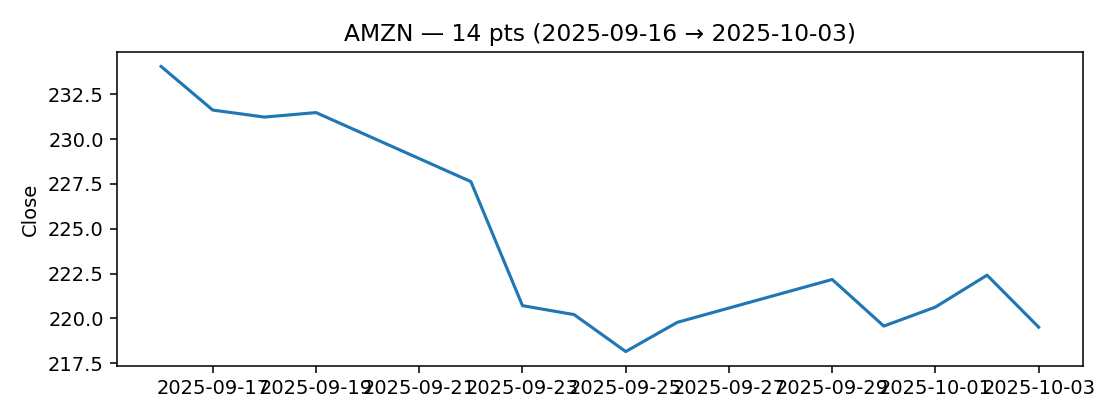
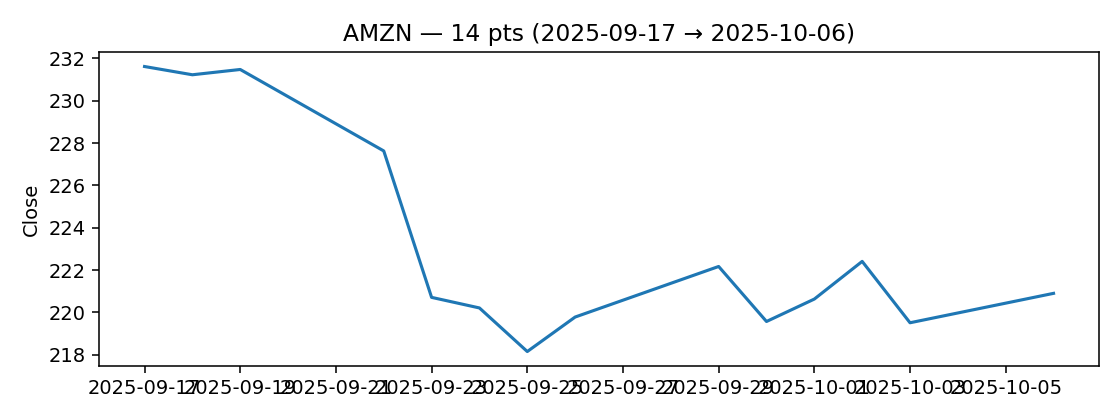
chore: update daily report 2025-10-07 08:11

diff --git a/docs/daily_report.html b/docs/daily_report.html
@@ -108,7 +108,7 @@
   <header>
     <div>
       <h1>Daily Study & News Companion</h1>
-      <div class="sub">2025-10-05 08:09 · TZ: CST</div>
+      <div class="sub">2025-10-07 08:11 · TZ: CST</div>
     </div>
     <button class="btn" id="themeBtn">🌓 Tema</button>
   </header>
@@ -150,11 +150,11 @@
           </div>
           <div class="mkt-body">
             <div class="metrics-row">
-          <div class="kv"><span>Last</span><b>219.51</b></div>
-          <div class="kv"><span>d/d</span><b class="down">-6.21%</b></div>
+          <div class="kv"><span>Last</span><b>220.90</b></div>
+          <div class="kv"><span>d/d</span><b class="down">-4.63%</b></div>
           <div class="kv"><span>Mín</span><b>218.15</b></div>
-          <div class="kv"><span>Máx</span><b>234.05</b></div>
-          <div class="kv"><span>σ</span><b>5.44</b></div>
+          <div class="kv"><span>Máx</span><b>231.62</b></div>
+          <div class="kv"><span>σ</span><b>4.75</b></div>
         </div>
             <div class="chart"><img src="charts/AMZN_close.png" alt="AMZN chart" loading="lazy"/></div>
           </div>
@@ -167,11 +167,11 @@
           </div>
           <div class="mkt-body">
             <div class="metrics-row">
-          <div class="kv"><span>Last</span><b>517.35</b></div>
-          <div class="kv"><span>d/d</span><b class="up">1.63%</b></div>
+          <div class="kv"><span>Last</span><b>528.57</b></div>
+          <div class="kv"><span>d/d</span><b class="up">3.64%</b></div>
           <div class="kv"><span>Mín</span><b>507.03</b></div>
-          <div class="kv"><span>Máx</span><b>519.71</b></div>
-          <div class="kv"><span>σ</span><b>4.06</b></div>
+          <div class="kv"><span>Máx</span><b>528.57</b></div>
+          <div class="kv"><span>σ</span><b>5.52</b></div>
         </div>
             <div class="chart"><img src="charts/MSFT_close.png" alt="MSFT chart" loading="lazy"/></div>
           </div>
@@ -184,11 +184,11 @@
           </div>
           <div class="mkt-body">
             <div class="metrics-row">
-          <div class="kv"><span>Last</span><b>187.62</b></div>
-          <div class="kv"><span>d/d</span><b class="up">7.28%</b></div>
+          <div class="kv"><span>Last</span><b>185.54</b></div>
+          <div class="kv"><span>d/d</span><b class="up">8.96%</b></div>
           <div class="kv"><span>Mín</span><b>170.29</b></div>
           <div class="kv"><span>Máx</span><b>188.89</b></div>
-          <div class="kv"><span>σ</span><b>5.43</b></div>
+          <div class="kv"><span>σ</span><b>5.36</b></div>
         </div>
             <div class="chart"><img src="charts/NVDA_close.png" alt="NVDA chart" loading="lazy"/></div>
           </div>
@@ -201,11 +201,11 @@
           </div>
           <div class="mkt-body">
             <div class="metrics-row">
-          <div class="kv"><span>Last</span><b>429.83</b></div>
-          <div class="kv"><span>d/d</span><b class="up">1.95%</b></div>
+          <div class="kv"><span>Last</span><b>453.25</b></div>
+          <div class="kv"><span>d/d</span><b class="up">6.43%</b></div>
           <div class="kv"><span>Mín</span><b>416.85</b></div>
           <div class="kv"><span>Máx</span><b>459.46</b></div>
-          <div class="kv"><span>σ</span><b>11.15</b></div>
+          <div class="kv"><span>σ</span><b>11.69</b></div>
         </div>
             <div class="chart"><img src="charts/TSLA_close.png" alt="TSLA chart" loading="lazy"/></div>
           </div>
@@ -218,11 +218,11 @@
           </div>
           <div class="mkt-body">
             <div class="metrics-row">
-          <div class="kv"><span>Last</span><b>669.21</b></div>
-          <div class="kv"><span>d/d</span><b class="up">1.40%</b></div>
+          <div class="kv"><span>Last</span><b>671.61</b></div>
+          <div class="kv"><span>d/d</span><b class="up">1.89%</b></div>
           <div class="kv"><span>Mín</span><b>658.05</b></div>
-          <div class="kv"><span>Máx</span><b>669.22</b></div>
-          <div class="kv"><span>σ</span><b>3.57</b></div>
+          <div class="kv"><span>Máx</span><b>671.61</b></div>
+          <div class="kv"><span>σ</span><b>3.92</b></div>
         </div>
             <div class="chart"><img src="charts/^GSPC_close.png" alt="^GSPC chart" loading="lazy"/></div>
           </div>
@@ -250,38 +250,38 @@
             <ul class="news-list">
               <li class="news-item" data-topic="AI">
                 <span class="dot"></span>
-                <a href="https://www.ft.com/content/58b078be-e0ab-492f-9dbf-c2fe67298dd3" target="_blank" rel="noreferrer">OpenAI and Jony Ive grapple with technical issues on secretive AI device</a>
-                <div class="meta">2025-10-05 04:00 · <span class="src">www.ft.com</span></div>
+                <a href="https://www.bloomberg.com/news/videos/2025-10-07/dell-lifts-estimates-for-next-four-years-on-ai-demand" target="_blank" rel="noreferrer">Dell Lifts Estimates for Next Four Years on AI Demand</a>
+                <div class="meta">2025-10-07 13:51 · <span class="src">www.bloomberg.com</span></div>
               </li>
             
               <li class="news-item" data-topic="AI">
                 <span class="dot"></span>
-                <a href="https://www.bloomberg.com/news/articles/2025-10-04/the-big-ai-trade-in-europe-is-all-about-data-centers-and-power" target="_blank" rel="noreferrer">The Big AI Trade in Europe Is All About Data Centers and Power</a>
-                <div class="meta">2025-10-04 08:00 · <span class="src">Margaryta Kirakosian, Sagarika Jaisinghani</span></div>
+                <a href="https://www.bloomberg.com/news/articles/2025-10-07/s-p-500-drifts-higher-as-traders-await-fed-speakers-for-rate-cue" target="_blank" rel="noreferrer">S&amp;P 500 Drifts Higher as Traders Await Fed Speakers for Rate Cue</a>
+                <div class="meta">2025-10-07 13:46 · <span class="src">Jess Menton</span></div>
               </li>
             
               <li class="news-item" data-topic="AI">
                 <span class="dot"></span>
-                <a href="https://www.bloomberg.com/news/articles/2025-10-03/blackrock-s-40-billion-bet-on-a-lesser-known-data-center-firm" target="_blank" rel="noreferrer">BlackRock’s $40 Billion Bet on a Lesser-Known Data Center Firm</a>
-                <div class="meta">2025-10-03 20:41 · <span class="src">Emily Forgash</span></div>
+                <a href="https://www.bloomberg.com/news/articles/2025-10-07/data-center-boom-brings-risks-of-overbuilding-ares-deveer-says" target="_blank" rel="noreferrer">Data Center Boom Brings Risks of Overbuilding, Ares’ deVeer Says</a>
+                <div class="meta">2025-10-07 13:18 · <span class="src">Meg Short</span></div>
               </li>
             
               <li class="news-item" data-topic="AI">
                 <span class="dot"></span>
-                <a href="https://www.bloomberg.com/news/videos/2025-10-03/opinion-sora-is-sam-altman-s-new-ai-time-suck-video" target="_blank" rel="noreferrer">Sora Is Sam Altman’s New AI Time Suck</a>
-                <div class="meta">2025-10-03 14:54 · <span class="src">www.bloomberg.com</span></div>
+                <a href="https://www.bloomberg.com/news/articles/2025-10-07/dell-raises-estimates-for-next-four-years-on-booming-ai-demand" target="_blank" rel="noreferrer">Dell Hikes Estimates for Next Four Years on Strong AI Demand</a>
+                <div class="meta">2025-10-07 12:30 · <span class="src">Dina Bass</span></div>
               </li>
             
               <li class="news-item" data-topic="AI">
                 <span class="dot"></span>
-                <a href="https://www.nytimes.com/2025/10/03/podcasts/sora-and-the-infinite-slop-feeds-chatgpt-goes-to-therapy-hot-mess-express.html" target="_blank" rel="noreferrer">Sora and the Infinite Slop Feeds + ChatGPT Goes to Therapy + Hot Mess Express</a>
-                <div class="meta">2025-10-03 11:00 · <span class="src">Kevin Roose, Casey Newton, Rachel Cohn, Whitney Jones, Jen Poyant, Alyssa Moxley, Dan Powell, Marion Lozano and Rowan Niemisto</span></div>
+                <a href="https://www.bloomberg.com/news/articles/2025-10-07/fintech-ramp-launches-fraud-fighting-bill-payment-ai-agents" target="_blank" rel="noreferrer">Fintech Ramp Launches Fraud Fighting, Bill Payment AI Agents</a>
+                <div class="meta">2025-10-07 12:00 · <span class="src">Emily Mason</span></div>
               </li>
             
               <li class="news-item" data-topic="AI">
                 <span class="dot"></span>
-                <a href="https://www.nytimes.com/2025/10/03/technology/sora-openai-video-disinformation.html" target="_blank" rel="noreferrer">OpenAI’s Sora Makes Disinformation Extremely Easy and Extremely Real</a>
-                <div class="meta">2025-10-03 09:03 · <span class="src">Tiffany Hsu, Stuart A. Thompson and Steven Lee Myers</span></div>
+                <a href="https://www.bloomberg.com/news/articles/2025-10-07/dot-com-fears-rise-with-tech-stocks-seeing-100-billion-swings" target="_blank" rel="noreferrer">Dot-Com Fears Rise With Tech Stocks Seeing $100 Billion Swings</a>
+                <div class="meta">2025-10-07 11:05 · <span class="src">Carmen Reinicke</span></div>
               </li>
             </ul>
           </div>
@@ -291,38 +291,38 @@
             <ul class="news-list">
               <li class="news-item" data-topic="Fintech">
                 <span class="dot"></span>
-                <a href="https://www.ft.com/content/5e5853b9-a631-4248-ae83-18388765ff47" target="_blank" rel="noreferrer">Monzo plots new push for US banking licence</a>
-                <div class="meta">2025-10-05 04:00 · <span class="src">www.ft.com</span></div>
+                <a href="https://www.bloomberg.com/news/articles/2025-10-07/trader-gagliardi-named-in-doj-probe-would-have-been-insulted-if-left-out" target="_blank" rel="noreferrer">Trader Gagliardi Named in DOJ Probe Would Have Been ‘Insulted’ If Left Out</a>
+                <div class="meta">2025-10-07 13:35 · <span class="src">Lucca de Paoli</span></div>
               </li>
             
               <li class="news-item" data-topic="Fintech">
                 <span class="dot"></span>
-                <a href="https://www.ft.com/content/5cf7fbb4-d8e3-4e39-913c-da2fd8fba343" target="_blank" rel="noreferrer">Lloyds stumbles in its wealth management dash for cash</a>
-                <div class="meta">2025-10-04 04:00 · <span class="src">www.ft.com</span></div>
+                <a href="https://www.bloomberg.com/news/articles/2025-10-07/cvc-in-talks-with-private-credit-funds-to-refinance-webpros-debt" target="_blank" rel="noreferrer">CVC in Talks With Private Credit Funds to Refinance WebPros Debt</a>
+                <div class="meta">2025-10-07 13:21 · <span class="src">Silas Brown, Claire Ruckin</span></div>
               </li>
             
               <li class="news-item" data-topic="Fintech">
                 <span class="dot"></span>
-                <a href="https://www.ft.com/content/550bc2e0-2869-4a5d-a677-a66f4c35a7b9" target="_blank" rel="noreferrer">Centerview to face trial over junior banker’s long hours</a>
-                <div class="meta">2025-10-03 22:39 · <span class="src">www.ft.com</span></div>
+                <a href="https://www.bloomberg.com/news/articles/2025-10-07/hungary-central-bank-pushes-back-on-rate-cuts-after-forint-sinks" target="_blank" rel="noreferrer">Hungary Central Bank Pushes Back on Rate Cuts After Forint Sinks</a>
+                <div class="meta">2025-10-07 13:06 · <span class="src">Marton Kasnyik, Andras Gergely</span></div>
               </li>
             
               <li class="news-item" data-topic="Fintech">
                 <span class="dot"></span>
-                <a href="https://www.bloomberg.com/news/articles/2025-10-03/braskem-pulls-from-1-billion-credit-facility-amid-debt-review" target="_blank" rel="noreferrer">Braskem Taps $1 Billion Credit Facility Amid Debt Review</a>
-                <div class="meta">2025-10-03 18:31 · <span class="src">Rachel Gamarski, Vinicius Andrade, Giovanna Bellotti Azevedo</span></div>
+                <a href="https://www.ft.com/content/47331a3b-a104-4924-96b7-3af3b84288eb" target="_blank" rel="noreferrer">‘Big data’ helps HMRC increase UK tax haul by £4.6bn</a>
+                <div class="meta">2025-10-07 04:00 · <span class="src">www.ft.com</span></div>
               </li>
             
               <li class="news-item" data-topic="Fintech">
                 <span class="dot"></span>
-                <a href="https://www.bloomberg.com/news/videos/2025-10-03/beach-point-on-first-brands-fallout-private-debt-risks-video" target="_blank" rel="noreferrer">Beach Point on Dispersion in Credit Markets</a>
-                <div class="meta">2025-10-03 16:27 · <span class="src">www.bloomberg.com</span></div>
+                <a href="https://www.ft.com/content/79b53db3-3411-454c-814d-d86f3c800abd" target="_blank" rel="noreferrer">Musk names former Morgan Stanley banker as new xAI CFO</a>
+                <div class="meta">2025-10-07 03:31 · <span class="src">www.ft.com</span></div>
               </li>
             
               <li class="news-item" data-topic="Fintech">
                 <span class="dot"></span>
-                <a href="https://www.bloomberg.com/news/articles/2025-10-03/fdic-set-to-jump-into-trump-s-debanking-fight-with-new-plan" target="_blank" rel="noreferrer">FDIC Set to Jump Into Trump’s Debanking Fight With New Plan</a>
-                <div class="meta">2025-10-03 16:11 · <span class="src">Katanga Johnson</span></div>
+                <a href="https://www.bloomberg.com/news/videos/2025-10-06/citadel-securities-in-stark-contrast-to-big-banks-video" target="_blank" rel="noreferrer">Citadel Securities in Stark Contrast to Big Banks, Esposito Says</a>
+                <div class="meta">2025-10-06 20:21 · <span class="src">www.bloomberg.com</span></div>
               </li>
             </ul>
           </div>
@@ -332,38 +332,38 @@
             <ul class="news-list">
               <li class="news-item" data-topic="General">
                 <span class="dot"></span>
-                <a href="https://www.bloomberg.com/news/articles/2025-10-05/stock-traders-brace-for-extended-shutdown-amid-lofty-valuations" target="_blank" rel="noreferrer">Stock Traders Brace for Extended Shutdown Amid Lofty Valuations</a>
-                <div class="meta">2025-10-05 13:00 · <span class="src">Geoffrey Morgan, Bernard Goyder, Matthew Griffin</span></div>
+                <a href="https://www.bloomberg.com/news/videos/2025-10-07/ray-dalio-picture-on-cutting-us-rates-is-mixed-video" target="_blank" rel="noreferrer">Ray Dalio Says the Picture on Cutting US Rates Is 'Slightly Mixed'</a>
+                <div class="meta">2025-10-07 14:03 · <span class="src">www.bloomberg.com</span></div>
               </li>
             
               <li class="news-item" data-topic="General">
                 <span class="dot"></span>
-                <a href="https://www.bloomberg.com/news/articles/2025-10-05/lagarde-says-french-presidency-is-terrible-job-not-for-her" target="_blank" rel="noreferrer">Lagarde Says French Presidency Is ‘Terrible Job,’ Not for Her</a>
-                <div class="meta">2025-10-05 12:44 · <span class="src">Zoe Schneeweiss</span></div>
+                <a href="https://www.bloomberg.com/news/articles/2025-10-07/lula-s-free-transport-plan-stokes-fiscal-fears-sends-real-lower" target="_blank" rel="noreferrer">Lula Mulls Free Brazil Transport Plan, Stoking Fiscal Fears</a>
+                <div class="meta">2025-10-07 12:56 · <span class="src">Andre Loureiro Dias</span></div>
               </li>
             
               <li class="news-item" data-topic="General">
                 <span class="dot"></span>
-                <a href="https://www.bloomberg.com/news/articles/2025-10-05/bulls-seeing-piling-into-emerging-markets-as-momentum-returns" target="_blank" rel="noreferrer">Bulls Seen Piling Into Emerging Markets as Momentum Returns</a>
-                <div class="meta">2025-10-05 12:30 · <span class="src">Marcus Wong, Malavika Kaur Makol, Maria Elena Vizcaino</span></div>
+                <a href="https://www.bloomberg.com/news/articles/2025-10-07/lithium-americas-lac-analysts-sour-as-us-stake-sparks-175-rally" target="_blank" rel="noreferrer">Lithium Americas Analysts Sour as US Stake Sparks 188% Rally</a>
+                <div class="meta">2025-10-07 11:37 · <span class="src">Amethyst Martinez</span></div>
               </li>
             
               <li class="news-item" data-topic="General">
                 <span class="dot"></span>
-                <a href="https://www.bloomberg.com/news/audio/2025-10-05/what-s-happening-in-em-inflows-gain-traction-podcast" target="_blank" rel="noreferrer">What’s Happening in EM: Inflows Gain Traction (Podcast)</a>
-                <div class="meta">2025-10-05 12:30 · <span class="src">Malavika Kaur Makol</span></div>
+                <a href="https://www.bloomberg.com/news/articles/2025-10-06/gold-heads-closer-to-4-000-as-us-shutdown-bolsters-haven-demand" target="_blank" rel="noreferrer">Gold Approaches $4,000 as Investors Weigh US Shutdown, France</a>
+                <div class="meta">2025-10-06 22:42 · <span class="src">Jack Ryan, Sybilla Gross, Yihui Xie</span></div>
               </li>
             
               <li class="news-item" data-topic="General">
                 <span class="dot"></span>
-                <a href="https://www.bloomberg.com/news/articles/2025-10-05/iran-signals-push-to-address-nuclear-standoff-despite-sanctions" target="_blank" rel="noreferrer">Iran Signals Push to Address Nuclear Standoff Despite Sanctions</a>
-                <div class="meta">2025-10-05 11:02 · <span class="src">Arsalan Shahla</span></div>
+                <a href="https://www.bloomberg.com/news/articles/2025-10-06/stock-market-today-dow-s-p-live-updates" target="_blank" rel="noreferrer">S&amp;P 500’s Winning Run Shows Signs of Exhaustion: Markets Wrap</a>
+                <div class="meta">2025-10-06 22:26 · <span class="src">Rita Nazareth</span></div>
               </li>
             
               <li class="news-item" data-topic="General">
                 <span class="dot"></span>
-                <a href="https://www.bloomberg.com/news/articles/2025-10-05/opec-agrees-to-modest-137-000-b-d-oil-supply-hike-for-november" target="_blank" rel="noreferrer">OPEC+ Agrees to Modest Oil Production Increase for November</a>
-                <div class="meta">2025-10-05 10:51 · <span class="src">Grant Smith, Salma El Wardany, Nayla Razzouk, Fiona MacDonald</span></div>
+                <a href="https://www.bloomberg.com/news/articles/2025-10-06/stanford-doubles-a-short-term-debt-program-to-1-billion" target="_blank" rel="noreferrer">Stanford Doubles a Short-Term Debt Program to $1 Billion</a>
+                <div class="meta">2025-10-06 20:50 · <span class="src">Amanda Albright</span></div>
               </li>
             </ul>
           </div>
@@ -373,38 +373,38 @@
             <ul class="news-list">
               <li class="news-item" data-topic="Machine Learning">
                 <span class="dot"></span>
-                <a href="https://www.theverge.com/tech/791574/best-switch-2-controllers" target="_blank" rel="noreferrer">I’ve tested the latest Switch 2 controllers and this one is the best</a>
-                <div class="meta">2025-10-05 14:00 · <span class="src">Cameron Faulkner</span></div>
+                <a href="https://www.bloomberg.com/news/articles/2025-10-07/wto-sees-full-drag-of-trump-tariffs-hitting-trade-growth-in-2026" target="_blank" rel="noreferrer">WTO Sees Full Impact of US Tariffs Hitting Trade Growth in 2026</a>
+                <div class="meta">2025-10-07 13:00 · <span class="src">Brendan Murray</span></div>
               </li>
             
               <li class="news-item" data-topic="Machine Learning">
                 <span class="dot"></span>
-                <a href="https://www.bloomberg.com/news/articles/2025-10-05/nvidia-partner-hon-hai-meets-sales-estimates-on-strong-ai-demand" target="_blank" rel="noreferrer">Nvidia Partner Hon Hai Meets Sales Estimates on Strong AI Demand</a>
-                <div class="meta">2025-10-05 07:52 · <span class="src">Debby Wu, Wenshan Luo</span></div>
+                <a href="https://www.bloomberg.com/news/videos/2025-10-07/the-opening-trade-10-7-video" target="_blank" rel="noreferrer">Gold Price Nears $4,000, Macron's 48-Hour Deadline to Soften Crisis | The Opening Trade 10/7</a>
+                <div class="meta">2025-10-07 12:09 · <span class="src">www.bloomberg.com</span></div>
               </li>
             
               <li class="news-item" data-topic="Machine Learning">
                 <span class="dot"></span>
-                <a href="https://www.bloomberg.com/news/articles/2025-10-05/bitcoin-rises-to-a-record-as-debasement-trade-spurs-risk-rally" target="_blank" rel="noreferrer">Bitcoin Rises to a Record as ‘Debasement’ Trade Spurs Risk Rally</a>
-                <div class="meta">2025-10-05 04:54 · <span class="src">Muyao Shen, Emily Nicolle</span></div>
+                <a href="https://www.bloomberg.com/news/videos/2025-10-07/outgoing-eqt-chair-on-long-term-asia-growth-video" target="_blank" rel="noreferrer">'We Should Be Bigger in US, but Long-term Growth in Asia': Outgoing EQT Chair</a>
+                <div class="meta">2025-10-07 12:07 · <span class="src">www.bloomberg.com</span></div>
               </li>
             
               <li class="news-item" data-topic="Machine Learning">
                 <span class="dot"></span>
-                <a href="https://www.bloomberg.com/news/articles/2025-10-04/rich-world-puts-its-public-finance-quagmire-on-show" target="_blank" rel="noreferrer">Rich World Puts Its Public-Finance Quagmire on Show</a>
-                <div class="meta">2025-10-04 20:00 · <span class="src">Craig Stirling</span></div>
+                <a href="https://www.bloomberg.com/news/newsletters/2025-10-07/japanese-startup-shows-ai-in-a-name-is-no-guarantee-of-success" target="_blank" rel="noreferrer">Japanese Startup Shows AI in a Name Is No Guarantee of Success</a>
+                <div class="meta">2025-10-07 11:02 · <span class="src">Min-Jeong Lee</span></div>
               </li>
             
               <li class="news-item" data-topic="Machine Learning">
                 <span class="dot"></span>
-                <a href="https://www.bloomberg.com/news/articles/2025-10-03/us-stocks-edge-higher-on-optimism-over-ai-momentum-fed-easing" target="_blank" rel="noreferrer">US Stock Rally Hits Wall as Tech Shares Weigh on Indexes</a>
-                <div class="meta">2025-10-03 13:38 · <span class="src">Natalia Kniazhevich</span></div>
+                <a href="https://www.bloomberg.com/news/articles/2025-10-07/jaguar-land-rover-to-restart-output-in-uk-after-cyberattack" target="_blank" rel="noreferrer">Jaguar Land Rover to Restart Output in UK After Cyberattack</a>
+                <div class="meta">2025-10-07 08:06 · <span class="src">William Wilkes</span></div>
               </li>
             
               <li class="news-item" data-topic="Machine Learning">
                 <span class="dot"></span>
-                <a href="https://www.ft.com/content/41e8a268-9504-4597-8576-280dda40e90d" target="_blank" rel="noreferrer">Santander UK chief executive departs ahead of TSB merger</a>
-                <div class="meta">2025-10-03 10:21 · <span class="src">www.ft.com</span></div>
+                <a href="https://www.bloomberg.com/news/articles/2025-10-07/copper-edges-higher-with-focus-on-fed-rates-and-us-shutdown" target="_blank" rel="noreferrer">Copper Resumes Rally Fueled by Mine Setbacks, Fed Outlook</a>
+                <div class="meta">2025-10-07 02:02 · <span class="src">Julian Luk, Eddie Spence</span></div>
               </li>
             </ul>
           </div>
@@ -414,7 +414,7 @@
     </main>
   </div>
 
-  <footer>Generado localmente · 2025-10-05 08:09</footer>
+  <footer>Generado localmente · 2025-10-07 08:11</footer>
 
   <script>
     'use strict';
